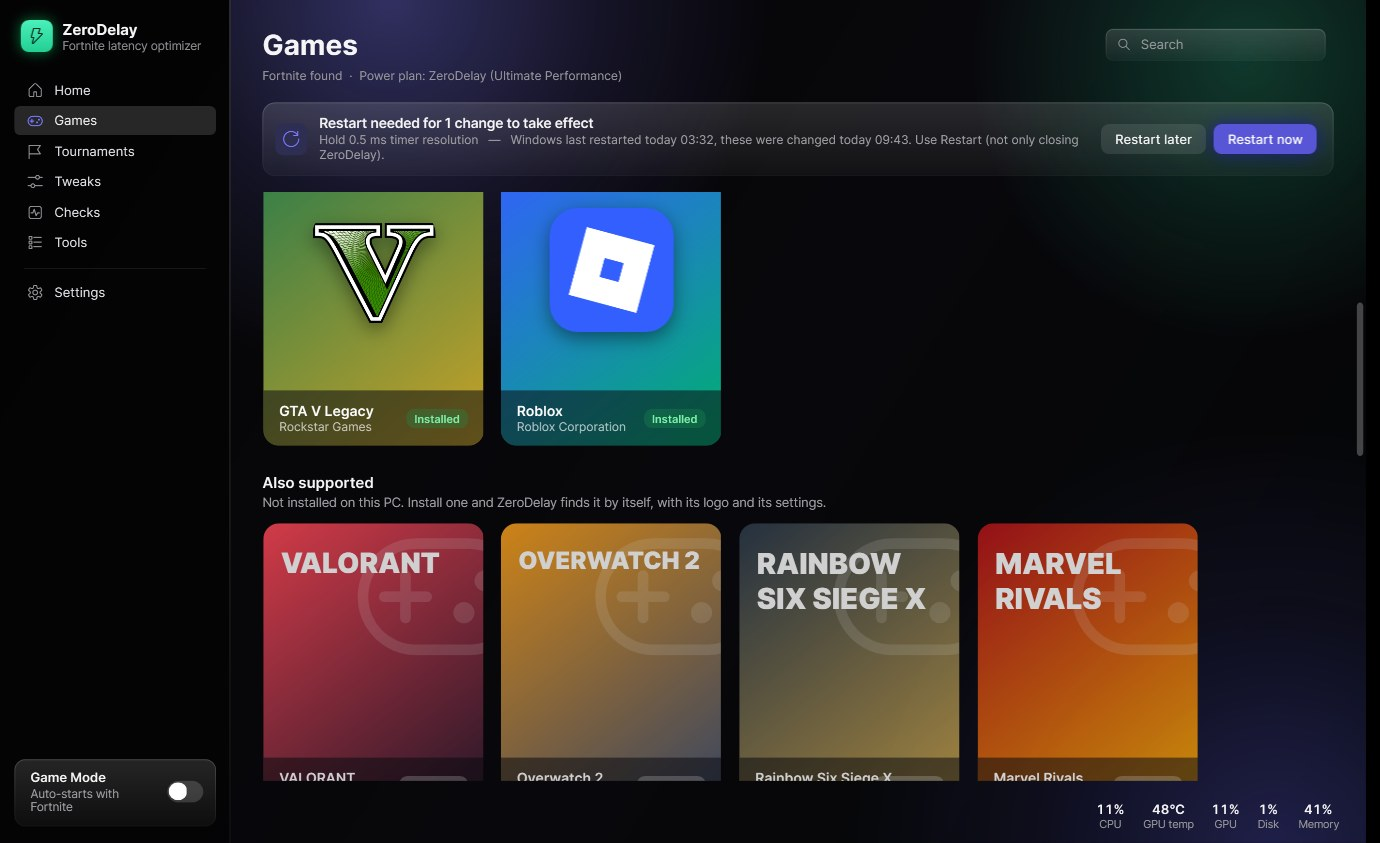
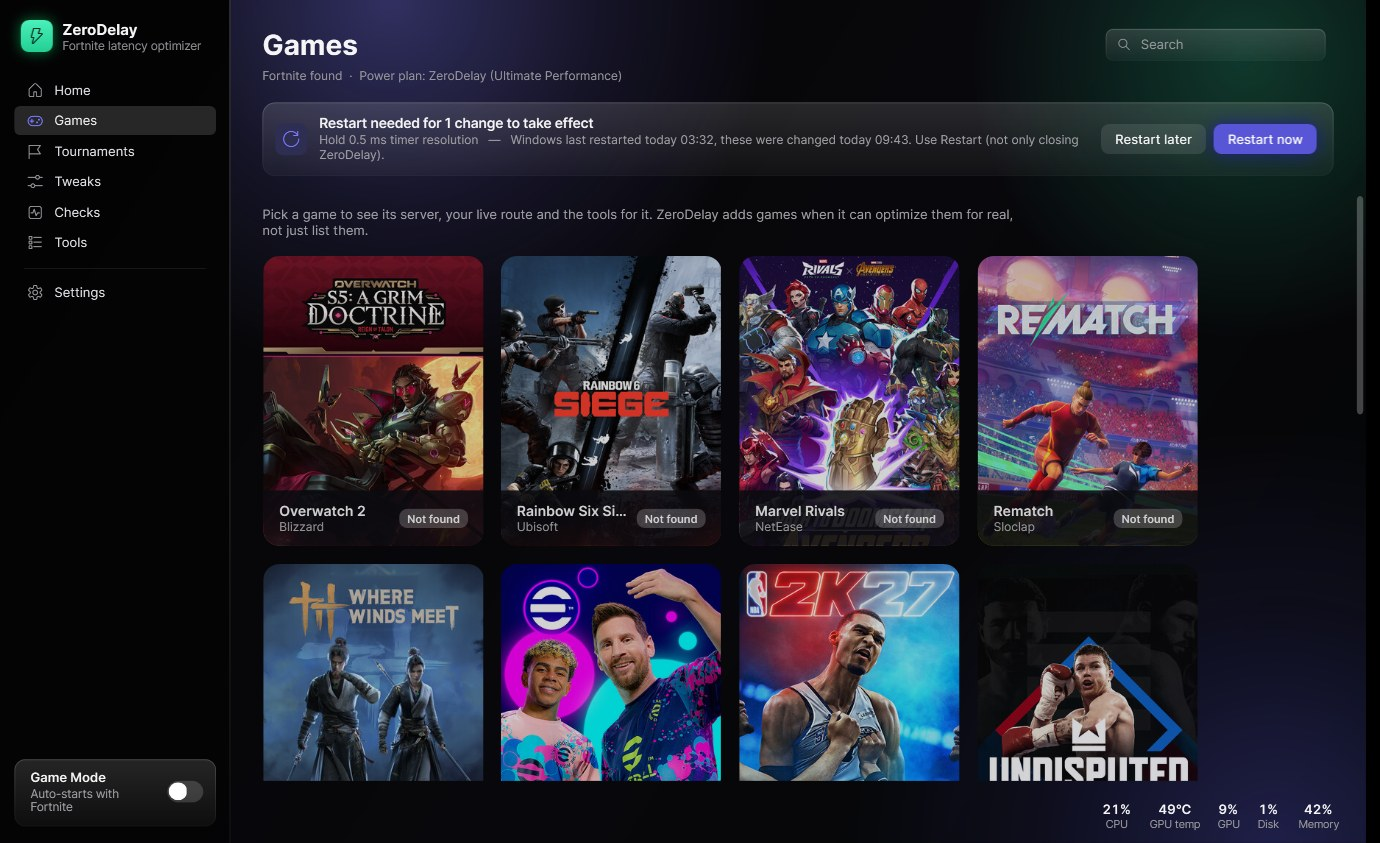
Website: Games screenshot with the 1.18.1 game art

diff --git a/docs/index.html b/docs/index.html
@@ -85,7 +85,7 @@
       <h2>A page for every game</h2>
       <p>24 games, each with its own page and its logo read from your installed copy. Watch your route live from your PC to your router, your provider and the game server, then press Start Game. Each game has its settings and checks in one panel next to it, and its own performance trends.</p>
     </div>
-    <figure class="shot glass"><img loading="lazy" src="img/games.jpg" width="1380" height="842" alt="The Games library with the games installed on this PC"></figure>
+    <figure class="shot glass"><img loading="lazy" src="img/games.jpg" width="1380" height="842" alt="The Games library with each game's official art"></figure>
   </section>
 
   <section class="feature reveal">
